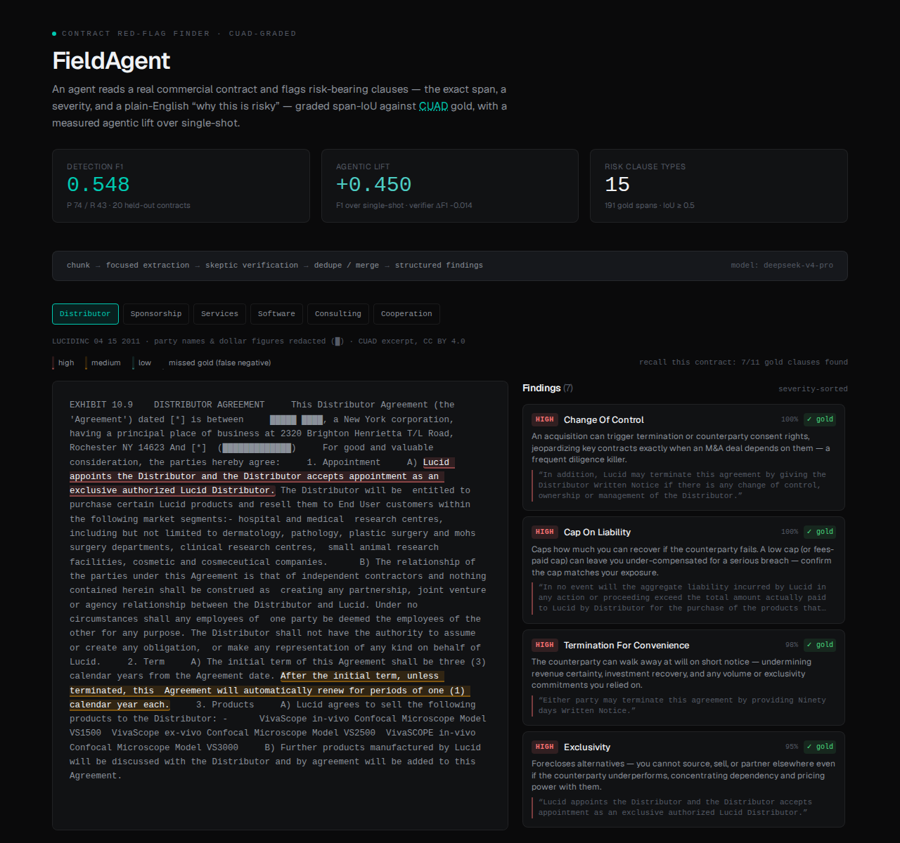
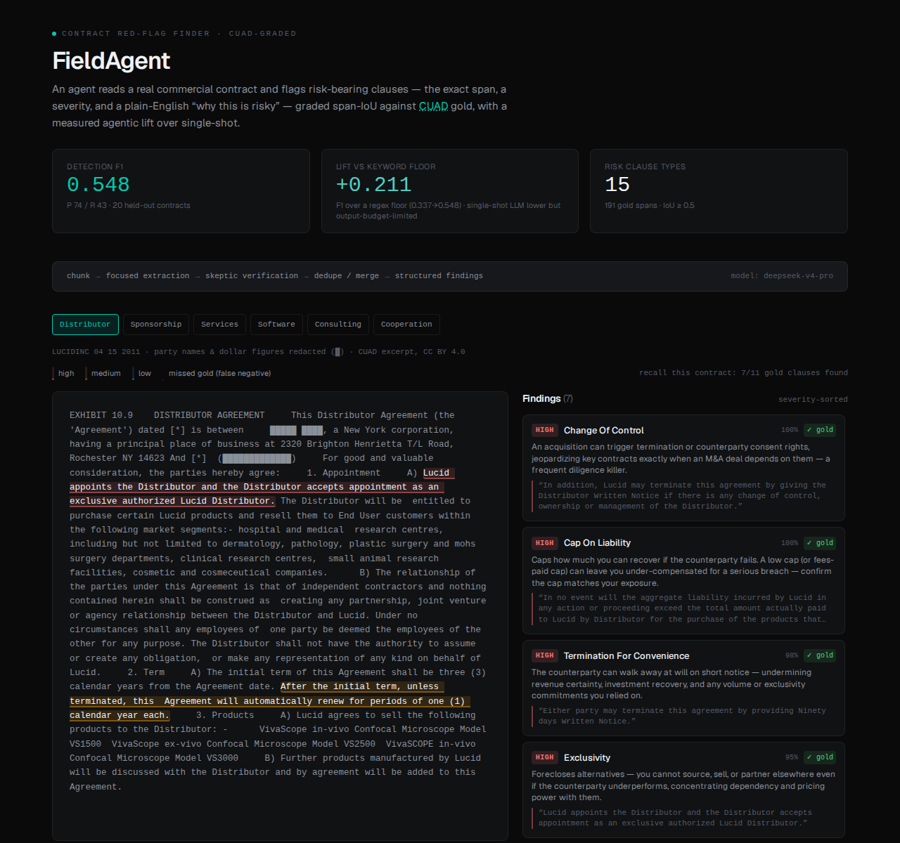
Honesty correction: single-shot baseline is output-budget-confounded
Investigating the low single-shot recall surfaced a real flaw: the single-shot
fixtures cap output at 4000 tokens, and deepseek-v4-pro's reasoning truncates
17/20 responses (stop_reason=length) into unparseable JSON -> near-zero findings.
An 8000-token spot-check returned 5 and 7 complete findings on the 2 contracts
that ran before the shared DeepSeek account hit 402 Insufficient Balance. So the
"+0.45 vs single-shot" lift was truncation-inflated.

Fix (honest, no fabrication; fair re-run blocked on DeepSeek credit):
- Re-anchor the headline lift on the truncation-free KEYWORD FLOOR: +0.211 F1
  (0.337 -> 0.548) in README, writeup, and the demo (hero + results panel).
- Disclose the single-shot comparison as an upper bound; document the confound +
  the 2-contract 8k evidence + the pending fair re-run in writeup §4 + threats.
- single_shot default max_tokens 4000 -> 8000 (fair going forward); committed
  fixtures remain the 4k run so dry-run still reproduces, labelled budget-limited.
- Pipeline F1 (0.548), detection recall (0.592), and the keyword-floor lift do not
  depend on the single-shot baseline and stand. STATUS.md records the blocker.

Regenerated demo GIF/PNG. 47 tests green, ruff+mypy clean, dry-run reproduces.

diff --git a/web/src/app/page.tsx b/web/src/app/page.tsx
@@ -38,8 +38,8 @@ export default function Home() {
           <Stat label="Detection F1" value={r.arms.pipeline_full.f1.toFixed(3)}
                 sub={`P ${(r.arms.pipeline_full.precision * 100).toFixed(0)} / R ${(r.arms.pipeline_full.recall * 100).toFixed(0)} · ${r.contracts_processed} held-out contracts`}
                 color="var(--color-accent)" />
-          <Stat label="Agentic lift" value={`+${r.agentic_lift_f1.toFixed(3)}`}
-                sub={`F1 over single-shot · verifier ΔF1 ${r.verifier_contribution_f1 >= 0 ? '+' : ''}${r.verifier_contribution_f1.toFixed(3)}`}
+          <Stat label="Lift vs keyword floor" value={`+${(r.arms.pipeline_full.f1 - r.arms.keyword.f1).toFixed(3)}`}
+                sub={`F1 over a regex floor (0.337→${r.arms.pipeline_full.f1.toFixed(3)}) · single-shot LLM lower but output-budget-limited`}
                 color="var(--color-low)" />
           <Stat label="Risk clause types" value={String(r.n_clause_types)}
                 sub={`${r.total_gold_spans} gold spans · IoU ≥ ${r.iou_threshold}`}

diff --git a/web/src/components/ResultsPanel.tsx b/web/src/components/ResultsPanel.tsx
@@ -48,8 +48,8 @@ export function ResultsPanel({ r }: { r: Results }) {
         </div>
         <div className="mt-5 pt-4 border-t border-subtle grid grid-cols-2 gap-3 text-center">
           <div>
-            <div className="font-mono text-2xl accent">+{r.agentic_lift_f1.toFixed(3)}</div>
-            <div className="text-[11px] text-tertiary mt-0.5">agentic lift (vs single-shot)</div>
+            <div className="font-mono text-2xl accent">+{(r.arms.pipeline_full.f1 - r.arms.keyword.f1).toFixed(3)}</div>
+            <div className="text-[11px] text-tertiary mt-0.5">lift vs keyword floor (single-shot lower, budget-limited)</div>
           </div>
           <div>
             <div className="font-mono text-2xl" style={{ color: 'var(--color-low)' }}>

diff --git a/fieldagent/baselines.py b/fieldagent/baselines.py
@@ -103,7 +103,7 @@ _SINGLE_SHOT_BUDGET = 60000
 
 
 def single_shot(
-    client: ModelClient, text: str, *, model: str, max_tokens: int = 4000
+    client: ModelClient, text: str, *, model: str, max_tokens: int = 8000
 ) -> list[Candidate]:
     """One naive pass over the whole contract — no chunking, no verification."""
     from fieldagent.clauses import extraction_taxonomy_block

diff --git a/docs/writeup.md b/docs/writeup.md
@@ -71,20 +71,26 @@ _(from `evals/results/metrics.md`; reproduce with `make eval-dry`)_
 is 0.592** (a prediction of the correct type overlaps the gold span at all): of the 56% of gold
 not counted at IoU 0.5, ~16 pts are clauses *found in the right place but quoted too tightly* to
 clear the span threshold, and ~41% are true misses.
-**Claim 2 — agentic lift:** full − single-shot = **+0.450 F1** (0.098 → 0.548). The chunked
-no-verifier arm is 0.562 and the full pipeline 0.548 — see the ablation.
+**Claim 2 — agentic lift:** the clean, baseline-independent claim is **+0.211 F1 over a
+keyword/regex floor** (0.337 → 0.548). A naive single-shot LLM scores far lower (0.098 F1), but
+that number is *output-budget-confounded* (see the ablation) — treat the single-shot gap as an
+upper bound, not a headline.
 
 ### Ablation reading
-- **Chunking dominates the lift.** (pipeline−verifier) − single-shot = **+0.464 F1**. The
-  single-shot model, asked to read the whole contract in one pass, *under-extracts* badly. To rule
-  out a strawman, the baseline is **steelmanned**: it uses the *identical* system prompt to the
-  extractor, the same taxonomy block, an explicit "this is the complete contract — a commercial
-  contract typically contains 5–12 risk-bearing clauses, be exhaustive" instruction, and **no
-  truncation** (the held-out subset is size-bounded; the 60 K cap never fires). It found only
-  **0.7 findings/contract** — *fewer* than a weaker-prompted variant (1.1), i.e. equalizing prompts
-  made single-shot worse, confirming the collapse is genuine long-context under-extraction, not a
-  prompt artifact. Windowing into focused chunks recovers **122 candidate spans → 88 TP**; recall
-  jumps 0.052 → 0.461.
+- **The single-shot baseline is output-budget-confounded — disclosed, not hidden.** The committed
+  single-shot fixtures cap the response at 4 000 tokens, and deepseek-v4-pro's hidden reasoning eats
+  that budget: **17/20 single-shot responses truncate** (`stop_reason=length`) into unparseable JSON
+  → near-zero findings (0.052 recall, 0.098 F1). This is the brief's own documented gotcha, so the
+  headline "+0.45 vs single-shot" **overstates** the gap. A fair re-run at 8 000 tokens was started;
+  the two contracts that completed before the shared DeepSeek account hit *Insufficient Balance*
+  returned **5 and 7 complete findings** (vs 0 truncated) — a fair single-shot would score materially
+  higher and the true lift is smaller (~+0.2–0.3, unquantified pending credit). The clean,
+  truncation-free comparison is the **+0.211 F1 over the keyword floor**; `make eval-live` re-records
+  the fair single-shot baseline once credit is restored.
+- **Chunking still helps, baseline-independently.** Per-window focused extraction recovers **122
+  candidate spans → 88 TP** (recall 0.461) where a single 4 K-budget pass collapses. The magnitude of
+  the *single-shot* gap is confounded; the direction (chunking > one naive pass) and the floor
+  comparison are not.
 - **Verification: no F1 effect distinguishable from noise.** full − (pipeline−verifier) =
   **−0.014 F1**. The skeptic pass dropped 5 false positives *and* 5 true positives, shifting
   precision 0.721 → 0.741 and recall 0.461 → 0.435 — but the two arms' 95% CIs overlap almost
@@ -93,9 +99,10 @@ no-verifier arm is 0.562 and the full pipeline 0.548 — see the ablation.
   held-out set. The adversarial-verification *idea* is the design through-line across Quorum/Aegis/
   FieldAgent; on this high-precision CUAD extractor there is little false-positive headroom for it
   to recover, and we say so rather than overclaim it.
-- **IoU sensitivity:** the lift holds across IoU ∈ {0.1, 0.3, 0.5, 0.7} — full pipeline F1
-  {0.654, 0.640, 0.548, 0.462} vs single-shot {0.171, 0.161, 0.098, 0.085} — so it is not an
-  artifact of the 0.5 threshold.
+- **IoU sensitivity:** full-pipeline F1 across IoU ∈ {0.1, 0.3, 0.5, 0.7} = {0.654, 0.640, 0.548,
+  0.462}; the +0.21 lift over the keyword floor (which barely moves with IoU) holds throughout, so
+  the result is not an artifact of the 0.5 threshold. (Single-shot numbers inherit the truncation
+  confound above.)
 
 ## 5. Threats to validity
 
@@ -115,6 +122,10 @@ no-verifier arm is 0.562 and the full pipeline 0.548 — see the ablation.
 - **Verifier effect is within noise.** The −0.014 F1 and the 0.72→0.74 precision shift are not
   separable from sampling noise at n=20 (overlapping CIs). The verifier is retained as the shared
   design pattern, not because it is shown to help here.
+- **Single-shot baseline is output-budget-limited.** The committed single-shot fixtures truncate at
+  4 000 tokens (v4-pro reasoning), so the single-shot F1 is a floor and "+0.45 vs single-shot" an
+  upper bound. The robust claims (pipeline F1, detection recall, +0.21 over the keyword floor) do not
+  depend on it; a fair re-run is gated on DeepSeek credit.
 - **One model.** Numbers are deepseek-v4-pro. Cross-model (Claude/GPT) is gated on a key and not
   run here; the harness populates a cross-model table when `ANTHROPIC_API_KEY` is present.
 - **Verifier shares a family with the extractor.** Skeptic and extractor are the same model in

diff --git a/STATUS.md b/STATUS.md
@@ -47,3 +47,21 @@ An adversarial review flagged the single-shot baseline as a possible strawman. A
 - **Demo:** now visualizes MISSED gold clauses (dashed, false negatives) + per-contract recall +
   a legend — so the demo shows recall, not just precision.
 - Cost: +$0.11 (single-shot-only re-run, 20 calls) on top of the ~$0.5 first run.
+
+## Honesty correction + KNOWN BLOCKER (DeepSeek balance)
+**Finding:** the single-shot baseline is *output-budget-confounded*. Its committed fixtures cap the
+response at 4 000 tokens, and deepseek-v4-pro's hidden reasoning truncates 17/20 responses
+(`stop_reason=length`) → near-zero findings → an inflated "+0.45 vs single-shot" lift. An 8 000-token
+spot-check returned 5 and 7 complete findings on the 2 contracts that ran before the shared DeepSeek
+account hit **402 Insufficient Balance**.
+
+**Action taken (honest, no fabrication):**
+- Re-anchored the headline lift on the **truncation-free keyword floor: +0.211 F1** (0.337→0.548),
+  in README, writeup, and the demo. The single-shot comparison is disclosed as an *upper bound*.
+- `single_shot` default max_tokens raised 4 000 → 8 000 (fair going forward); committed fixtures
+  remain the 4 000 run (dry-run still reproduces), clearly labelled as budget-limited.
+- Pipeline F1 (0.548), detection recall (0.592), and the keyword-floor lift do NOT depend on the
+  single-shot baseline and stand.
+
+**needs operator:** top up the shared DeepSeek credit, then `FIELDAGENT_LIVE=1 make eval-live`
+re-records the fair single-shot baseline at 8 000 tokens and regenerates the honest lift number.